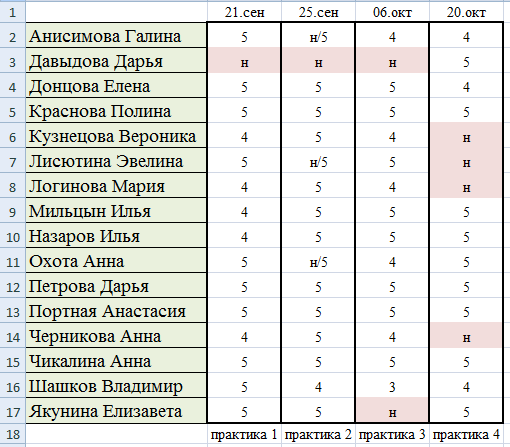
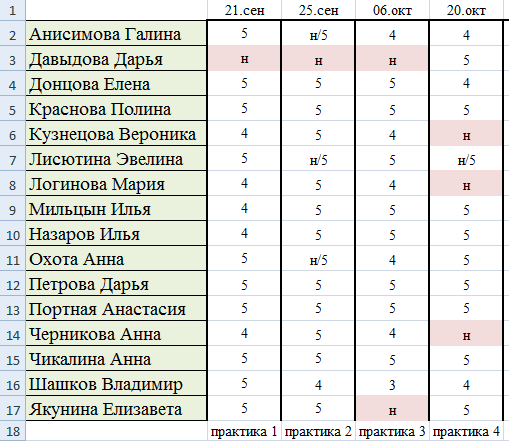
3.9.13

diff --git a/4rsosp.html b/4rsosp.html
@@ -45,7 +45,7 @@
   <h1 style="color: #900020;">ПРАКТИКИ</h1>
 </div>
 <div class="scroll-table">
-<div class="scroll-table-body" style="height: 300px">
+<div class="scroll-table-body" style="height: 400px">
 <table>
 <tr>
 <td><a href="сайт/практики/1 Создание сайта.docx" >№1 Структура сайта. Основные блоки</a></td>
@@ -66,10 +66,14 @@
 </tr>
 
 <tr>
-<td><a href="сайт/практики/4 Tilda.docx" >№4 Конструктор Tilda</a></td>
-<td><a href="сайт/практики/4 Tilda.pptx" >Теоретический материал</a></td>
+<td><a href="сайт/практики/5 Сайт-резюме.docx" >№4 Конструктор Tilda</a></td>
+<td><a href="сайт/практики/5 Сайт-резюме.pptx" >Теоретический материал</a></td>
 </tr>
 
+<tr>
+<td><a href="сайт/практики/5 Сайт-резюме.docx" >№5 Сайт-резюме</a></td>
+<td><a href="сайт/практики/5 Сайт-резюме.pptx" >Теоретический материал</a></td>
+</tr>
 
 </table>
 </div>
